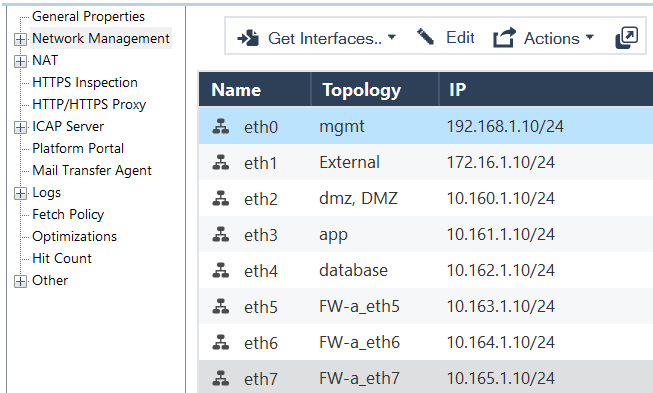
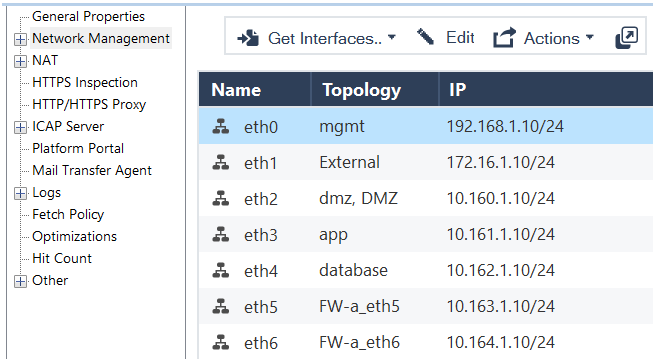
Updated number of segments

diff --git a/README.md b/README.md
@@ -174,7 +174,7 @@ Application Load Balancer предоставляет расширенные во
 
 ## Разворачиваемые сегменты и ресурсы
 
-Решение создает в облаке ресурсы для 8 сегментов 
+Решение создает в облаке ресурсы для 7 сегментов 
 
 <details>
 <summary>Посмотреть подробности</summary>
@@ -188,7 +188,6 @@ Application Load Balancer предоставляет расширенные во
 | database | для размещения баз данных | | + | + |
 | vpc6 | на будущее | | + | + |
 | vpc7 | на будущее | | + | + |
-| vpc8 | на будущее | | + | + |
 
 </details>
 
@@ -212,7 +211,7 @@ Application Load Balancer предоставляет расширенные во
 
     | Ресурс | Количество |
     | ----------- | ----------- |
-    | Каталоги | 8 |
+    | Каталоги | 7 |
     | Группы виртуальных машин | 1 |
     | Виртуальные машины | 6 |
     | vCPU виртуальных машин | 18 |
@@ -220,10 +219,10 @@ Application Load Balancer предоставляет расширенные во
     | Диски | 6 |
     | Объем SSD дисков | 360 ГБ |
     | Объем HDD дисков | 30 ГБ |
-    | Облачные сети | 8 |
-    | Подсети | 16 |
+    | Облачные сети | 7 |
+    | Подсети | 14 |
     | Таблицы маршрутизации | 4 |
-    | Группы безопасности | 11 |
+    | Группы безопасности | 10 |
     | Статические публичные IP-адреса | 2 |
     | Публичные IP-адреса | 2 |
     | Статические маршруты | 17 |
@@ -253,7 +252,7 @@ Application Load Balancer предоставляет расширенные во
     export YC_TOKEN=$(yc iam create-token)
     ```
 
-3. Заполните файл `terraform.tfvars` вашими значениями переменных. Файл содержит примеры значений, но вы можете заменить их своими данными (идентификатор облака, название vpc, подсети, порт приложения в DMZ, параметры для подключения к Jump ВМ). Обязательно укажите идентификатор вашего облака `cloud_id` и список публичных IP адресов/подсетей `trusted_ip_for_access_jump-vm`, с которых разрешено подключение к Jump ВМ. Рекомендуется указать все 8 сегментов с расчетом на будущее их использование, т.к. ВМ с образом NGFW в облаке не поддерживает добавление новых сетевых интерфейсов после её создания. 
+3. Заполните файл `terraform.tfvars` вашими значениями переменных. Файл содержит примеры значений, но вы можете заменить их своими данными (идентификатор облака, название vpc, подсети, порт приложения в DMZ, параметры для подключения к Jump ВМ). Обязательно укажите идентификатор вашего облака `cloud_id` и список публичных IP адресов/подсетей `trusted_ip_for_access_jump-vm`, с которых разрешено подключение к Jump ВМ. Рекомендуется указать все 7 сегментов с расчетом на будущее их использование, т.к. ВМ с образом NGFW в облаке не поддерживает добавление новых сетевых интерфейсов после её создания. 
 
     <details>
     <summary>Посмотреть переменные в terraform.tfvars</summary>
@@ -295,10 +294,6 @@ Application Load Balancer предоставляет расширенные во
     | vpc_name_7 | Название VPC и каталога для 7-го сегмента | "demo-vpc7" |
     | subnet-a_vpc_7 | Подсеть в зоне A для 7-го сегмента | "10.164.1.0/24" | 
     | subnet-b_vpc_7 | Подсеть в зоне B для 7-го сегмента | "10.164.2.0/24" | 
-    | **Сегмент 8** |||
-    | vpc_name_8 | Название VPC и каталога для 8-го сегмента | "demo-vpc8" |
-    | subnet-a_vpc_8 | Подсеть в зоне A для 8-го сегмента | "10.165.1.0/24" | 
-    | subnet-b_vpc_8 | Подсеть в зоне B для 8-го сегмента | "10.165.2.0/24" |
 
     </details>
 
@@ -492,7 +487,6 @@ Application Load Balancer предоставляет расширенные во
     | eth4 | 10.162.2.10/24 | FW-b_eth4 -> database (Internal) | InternalZone | Prevent and Log |
     | eth5 | 10.163.2.10/24 | This Network (Internal) | InternalZone | Prevent and Log |
     | eth6 | 10.164.2.10/24 | This Network (Internal) | InternalZone | Prevent and Log |
-    | eth7 | 10.165.2.10/24 | This Network (Internal) | InternalZone | Prevent and Log |
 
     <img src="./images/fw-b_topology_all_intf.png" alt="Интерфейсы FW-B" width="400"/>
 
